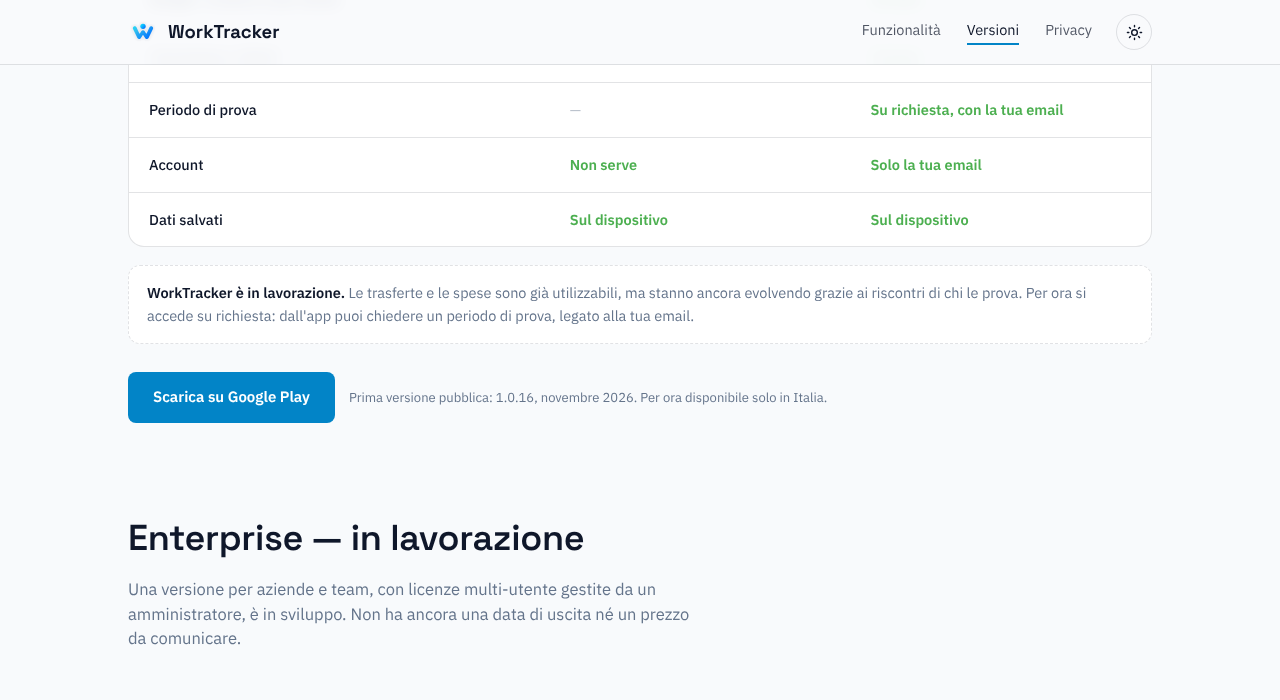
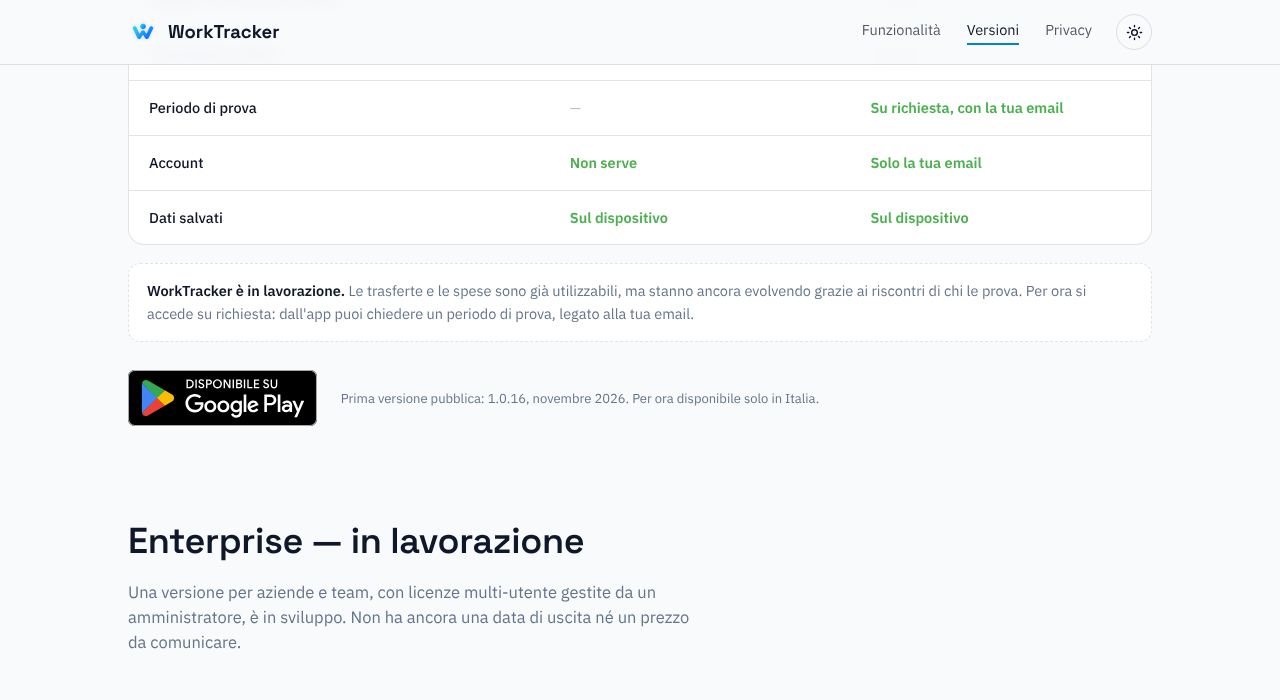
Sito: badge ufficiale di Google Play e galleria delle schermate rifatta
- Badge "Disponibile su Google Play" (brand/google-play/ di WorkTracker, 78bd960) al posto
  dei pulsanti testuali in WorkTracker, Funzionalità e Versioni, senza modifiche e con
  spazio intorno
- "L'app in breve": sezione scura, cornici di telefono con ombra, sei schermate prese
  dall'inizio dello schermo con titolo e una riga; griglia di 3 colonne su computer,
  scorrimento uno alla volta con punti su telefono; ingrandimento con Esc e frecce;
  immagini con dimensioni fisse e caricamento lazy; testo introduttivo aggiornato
- CLAUDE.md: file delle schermate e regole del badge

Claude-Session: https://claude.ai/code/session_01GDwTrYDSaUr12j4AG3LDR2

diff --git a/worktracker/index.html b/worktracker/index.html
@@ -76,7 +76,7 @@
       <h1>Ogni ora di lavoro, al suo posto.</h1>
       <p class="lede">Timbra, gestisci ferie e permessi con WorkTracker Lite. Tutto resta sul tuo telefono, non su un server di qualcun altro. Le trasferte arrivano con WorkTracker: è ancora in lavorazione, ma puoi già richiederne un periodo di prova.</p>
       <div class="cta-row">
-        <a href="https://play.google.com/store/apps/details?id=com.GhedoLab.WT" class="btn btn-primary" rel="noopener">Scarica su Google Play</a>
+        <a href="https://play.google.com/store/apps/details?id=com.GhedoLab.WT" class="gp-badge" rel="noopener"><img src="../assets/google-play/badge-disponibile-su-google-play-it.svg" alt="Disponibile su Google Play" width="189" height="56"></a>
         <a href="./prezzi/" class="btn btn-ghost">Vedi le versioni</a>
         <a href="./funzionalita/" class="btn btn-ghost">Come funziona</a>
       </div>
@@ -133,21 +133,58 @@
   </div>
 </section>
 
-<section id="schermate">
+<section class="on-contrast gallery" id="schermate">
   <div class="wrap">
     <div class="section-head">
       <h2>L'app in breve</h2>
-      <p>Alcune schermate di WorkTracker. Trasferte e spese fanno parte di WorkTracker, in lavorazione.</p>
+      <p>Le schermate principali: timbrature, zone di lavoro, trasferte e spese. Trasferte e spese sono incluse in WorkTracker.</p>
     </div>
-    <div class="shot-row">
-      <figure class="shot"><img src="./screenshot/home.webp" alt="La Home con le ore di oggi e il pulsante Entrata" width="540" height="1080" loading="lazy"><figcaption>La Home con le ore di oggi e il pulsante Entrata</figcaption></figure>
-      <figure class="shot"><img src="./screenshot/calendario.webp" alt="Calendario del mese con lavoro, ferie e permessi" width="540" height="1080" loading="lazy"><figcaption>Calendario del mese con lavoro, ferie e permessi</figcaption></figure>
-      <figure class="shot"><img src="./screenshot/timbrature.webp" alt="Elenco delle timbrature del giorno" width="540" height="1080" loading="lazy"><figcaption>Elenco delle timbrature del giorno</figcaption></figure>
-      <figure class="shot"><img src="./screenshot/zone.webp" alt="Zone di lavoro per la timbratura con la posizione" width="540" height="1080" loading="lazy"><figcaption>Zone di lavoro per la timbratura con la posizione</figcaption></figure>
-      <figure class="shot"><img src="./screenshot/trasferta.webp" alt="Dettaglio di una trasferta con rimborso km e prenotazioni" width="540" height="1080" loading="lazy"><figcaption>Dettaglio di una trasferta con rimborso km e prenotazioni</figcaption></figure>
-      <figure class="shot"><img src="./screenshot/spese.webp" alt="Spese di trasferta con il totale della giornata" width="540" height="1080" loading="lazy"><figcaption>Spese di trasferta con il totale della giornata</figcaption></figure>
-    </div>
+    <ul class="phones" id="phones">
+      <li class="phone-item">
+        <button class="phone" type="button" data-full="./screenshot/home-grande.webp" data-title="Home" aria-label="Ingrandisci: Home">
+          <img src="./screenshot/home.webp" alt="La Home di WorkTracker con le ore di oggi e il pulsante Entrata" width="540" height="1080" loading="lazy" decoding="async">
+        </button>
+        <p class="phone-cap"><strong>Home</strong>Ore di oggi, settimana e pulsante Entrata</p>
+      </li>
+      <li class="phone-item">
+        <button class="phone" type="button" data-full="./screenshot/timbrature-grande.webp" data-title="Timbrature" aria-label="Ingrandisci: Timbrature">
+          <img src="./screenshot/timbrature.webp" alt="Elenco delle timbrature del giorno con entrate e uscite" width="540" height="1080" loading="lazy" decoding="async">
+        </button>
+        <p class="phone-cap"><strong>Timbrature</strong>Entrate e uscite del giorno, da correggere con un tocco</p>
+      </li>
+      <li class="phone-item">
+        <button class="phone" type="button" data-full="./screenshot/zone-grande.webp" data-title="Zone di lavoro" aria-label="Ingrandisci: Zone di lavoro">
+          <img src="./screenshot/zone.webp" alt="Impostazioni delle zone di lavoro con la sede salvata" width="540" height="1080" loading="lazy" decoding="async">
+        </button>
+        <p class="phone-cap"><strong>Zone di lavoro</strong>Proposta o timbratura automatica quando arrivi</p>
+      </li>
+      <li class="phone-item">
+        <button class="phone" type="button" data-full="./screenshot/trasferta-grande.webp" data-title="Nuova trasferta" aria-label="Ingrandisci: Nuova trasferta">
+          <img src="./screenshot/trasferta.webp" alt="Creazione di una trasferta con destinazione sulla mappa e tipo di spostamento" width="540" height="1080" loading="lazy" decoding="async">
+        </button>
+        <p class="phone-cap"><strong>Nuova trasferta</strong>Destinazione sulla mappa, zona e mezzo</p>
+      </li>
+      <li class="phone-item">
+        <button class="phone" type="button" data-full="./screenshot/spese-grande.webp" data-title="Spese" aria-label="Ingrandisci: Spese">
+          <img src="./screenshot/spese.webp" alt="Spese di trasferta con il totale della giornata" width="540" height="1080" loading="lazy" decoding="async">
+        </button>
+        <p class="phone-cap"><strong>Spese</strong>Totale della giornata e scontrini per categoria</p>
+      </li>
+      <li class="phone-item">
+        <button class="phone" type="button" data-full="./screenshot/report-grande.webp" data-title="Report trasferta" aria-label="Ingrandisci: Report trasferta">
+          <img src="./screenshot/report.webp" alt="Schermata del report trasferta con i pulsanti PDF ed Excel" width="540" height="1080" loading="lazy" decoding="async">
+        </button>
+        <p class="phone-cap"><strong>Report trasferta</strong>PDF ed Excel pronti per il rimborso</p>
+      </li>
+    </ul>
+    <div class="phone-dots" id="phoneDots"></div>
   </div>
+  <dialog class="lightbox" id="lightbox" aria-label="Schermata ingrandita">
+    <button type="button" class="lb-close" data-lb="close" aria-label="Chiudi">✕</button>
+    <button type="button" class="lb-nav lb-prev" data-lb="prev" aria-label="Schermata precedente">‹</button>
+    <figure class="lb-figure"><img id="lbImg" src="" alt=""><figcaption id="lbCap"></figcaption></figure>
+    <button type="button" class="lb-nav lb-next" data-lb="next" aria-label="Schermata successiva">›</button>
+  </dialog>
 </section>
 
 <section>
@@ -174,7 +211,7 @@
       <strong>WorkTracker è in lavorazione.</strong> Trasferte e spese sono già utilizzabili ma stanno ancora evolvendo. Per ora si accede su richiesta: dall'app puoi chiedere un periodo di prova, legato alla tua email.
     </div>
     <div class="pricing-cta">
-      <a href="https://play.google.com/store/apps/details?id=com.GhedoLab.WT" class="btn btn-primary" rel="noopener">Scarica su Google Play</a>
+      <a href="https://play.google.com/store/apps/details?id=com.GhedoLab.WT" class="gp-badge" rel="noopener"><img src="../assets/google-play/badge-disponibile-su-google-play-it.svg" alt="Disponibile su Google Play" width="189" height="56"></a>
       <a href="./prezzi/" class="btn btn-ghost">Vedi tutti i dettagli</a>
       <span class="pricing-note">Per ora WorkTracker è disponibile su Google Play solo in Italia.</span>
     </div>
@@ -194,6 +231,56 @@
   </div>
 </footer>
 
+<script>
+(function () {
+  var list = document.getElementById('phones');
+  if (!list) return;
+  var phones = Array.prototype.slice.call(list.querySelectorAll('.phone'));
+  var items = list.querySelectorAll('.phone-item');
+  // Punti sotto la galleria (visibili solo da telefono, dove le schermate scorrono)
+  var dots = document.getElementById('phoneDots');
+  phones.forEach(function (_, n) {
+    var d = document.createElement('button');
+    d.type = 'button';
+    d.setAttribute('aria-label', 'Vai alla schermata ' + (n + 1));
+    d.addEventListener('click', function () { items[n].scrollIntoView({ behavior: 'smooth', block: 'nearest', inline: 'center' }); });
+    dots.appendChild(d);
+  });
+  function markDot() {
+    var mid = list.scrollLeft + list.clientWidth / 2, best = 0, dist = Infinity;
+    items.forEach(function (it, n) {
+      var c = it.offsetLeft + it.offsetWidth / 2, dd = Math.abs(c - mid);
+      if (dd < dist) { dist = dd; best = n; }
+    });
+    Array.prototype.forEach.call(dots.children, function (d, n) { d.setAttribute('aria-current', n === best ? 'true' : 'false'); });
+  }
+  list.addEventListener('scroll', function () { window.requestAnimationFrame(markDot); }, { passive: true });
+  markDot();
+  // Ingrandimento: Esc chiude (dialog nativo), frecce per scorrere, clic fuori per chiudere
+  var box = document.getElementById('lightbox'), img = document.getElementById('lbImg'), cap = document.getElementById('lbCap');
+  if (!box || typeof box.showModal !== 'function') return;
+  var cur = 0;
+  function show(n) {
+    cur = (n + phones.length) % phones.length;
+    var b = phones[cur], small = b.querySelector('img');
+    img.src = b.getAttribute('data-full');
+    img.alt = small.alt;
+    cap.textContent = (cur + 1) + ' / ' + phones.length + ' · ' + b.getAttribute('data-title');
+  }
+  phones.forEach(function (b, n) { b.addEventListener('click', function () { show(n); box.showModal(); }); });
+  box.addEventListener('click', function (e) {
+    var a = e.target.getAttribute && e.target.getAttribute('data-lb');
+    if (a === 'close' || e.target === box) box.close();
+    else if (a === 'prev') show(cur - 1);
+    else if (a === 'next') show(cur + 1);
+  });
+  box.addEventListener('keydown', function (e) {
+    if (e.key === 'ArrowLeft') { e.preventDefault(); show(cur - 1); }
+    if (e.key === 'ArrowRight') { e.preventDefault(); show(cur + 1); }
+  });
+  box.addEventListener('close', function () { phones[cur].focus(); });
+})();
+</script>
 <script src="../assets/theme.js"></script>
 <script>
 (function () {

diff --git a/assets/style.css b/assets/style.css
@@ -295,9 +295,45 @@ a.product-card:hover { border-color: var(--accent); }
 @media (max-width: 420px) { .wordmark.wordmark-text { font-size: 0; } }
 
 /* ---------- Schermate dell'app (pagina WorkTracker) ---------- */
-.shot-row { display: flex; gap: 18px; overflow-x: auto; scroll-snap-type: x mandatory; padding-bottom: 12px; -webkit-overflow-scrolling: touch; }
-.shot { flex: 0 0 220px; margin: 0; scroll-snap-align: start; }
-.shot img { width: 100%; height: auto; display: block; border-radius: 18px; border: 1px solid var(--border); background: var(--surface-card); }
-.shot figcaption { font-size: 13px; color: var(--text-muted); margin-top: 8px; line-height: 1.4; }
-@media (max-width: 640px) { .shot { flex-basis: 70%; } }
-.page-hero .lang-switch { margin: 0; font-size: 14px; }
+.gallery .phones { list-style: none; margin: 0 auto; padding: 0; max-width: 940px;
+  display: grid; grid-template-columns: repeat(3, 1fr); gap: 56px 36px; }
+.phone-item { margin: 0; }
+.phone { display: block; width: 100%; max-width: 250px; margin: 0 auto; padding: 9px;
+  border-radius: 36px; background: #05080F; border: 1px solid rgba(255,255,255,0.16);
+  box-shadow: 0 28px 50px -22px rgba(0,0,0,0.75), 0 2px 0 rgba(255,255,255,0.05) inset;
+  cursor: zoom-in; transition: transform 0.18s ease; }
+.phone:hover { transform: translateY(-4px); }
+.phone:focus-visible { outline: 2px solid var(--accent-bright); outline-offset: 4px; }
+.phone img { display: block; width: 100%; height: auto; aspect-ratio: 540 / 1080; border-radius: 28px; }
+.phone-cap { max-width: 250px; margin: 18px auto 0; text-align: center; font-size: 14px; line-height: 1.45;
+  color: var(--text-muted-on-contrast); }
+.phone-cap strong { display: block; font-size: 15.5px; color: var(--text-on-contrast); margin-bottom: 2px; }
+.phone-dots { display: none; }
+@media (max-width: 720px) {
+  .gallery .phones { display: flex; gap: 18px; overflow-x: auto; scroll-snap-type: x mandatory;
+    margin: 0 -20px; padding: 6px 20px 14px; scrollbar-width: none; }
+  .gallery .phones::-webkit-scrollbar { display: none; }
+  .phone-item { flex: 0 0 72%; scroll-snap-align: center; }
+  .phone { max-width: none; }
+  .phone-dots { display: flex; justify-content: center; gap: 10px; margin-top: 18px; }
+  .phone-dots button { width: 9px; height: 9px; padding: 0; border-radius: 50%; border: none;
+    background: var(--border-on-contrast); cursor: pointer; }
+  .phone-dots button[aria-current="true"] { background: var(--accent-bright); }
+}
+@media (prefers-reduced-motion: reduce) { .phone { transition: none; } .phone:hover { transform: none; } }
+.lightbox { border: none; padding: 0; background: transparent; max-width: 100vw; max-height: 100vh; overflow: visible; }
+.lightbox::backdrop { background: rgba(4,8,16,0.88); }
+.lb-figure { margin: 0; text-align: center; }
+.lb-figure img { display: block; height: 82vh; width: auto; max-width: 86vw; border-radius: 22px; margin: 0 auto; }
+.lb-figure figcaption { margin-top: 12px; color: #E2E8F0; font-size: 14px; }
+.lb-close, .lb-nav { position: fixed; border: 1px solid rgba(255,255,255,0.25); background: rgba(15,23,42,0.85);
+  color: #fff; border-radius: 50%; width: 44px; height: 44px; font-size: 22px; line-height: 1; cursor: pointer; }
+.lb-close { top: 16px; right: 16px; }
+.lb-nav { top: 50%; transform: translateY(-50%); }
+.lb-prev { left: 16px; } .lb-next { right: 16px; }
+.lb-close:focus-visible, .lb-nav:focus-visible { outline: 2px solid #38BDF8; outline-offset: 2px; }
+
+/* ---------- Badge ufficiale di Google Play (non modificare l'immagine) ---------- */
+.gp-badge { display: inline-flex; align-items: center; padding: 6px; margin: -6px 4px -6px -6px; border-radius: 10px; }
+.gp-badge img { display: block; height: 56px; width: auto; }
+.gp-badge:focus-visible { outline: 2px solid var(--accent); outline-offset: 2px; }

diff --git a/worktracker/funzionalita/index.html b/worktracker/funzionalita/index.html
@@ -150,7 +150,7 @@
       <h2 style="margin:0 0 14px;">Pronto a provarlo?</h2>
       <p class="muted" style="margin:0 0 28px;">Inizia con WorkTracker Lite, disponibile su Google Play. Quando ti servono le trasferte, richiedi un periodo di prova di WorkTracker.</p>
       <div style="display:flex;gap:14px;flex-wrap:wrap;justify-content:center;">
-        <a href="https://play.google.com/store/apps/details?id=com.GhedoLab.WT" class="btn btn-primary" rel="noopener">Scarica su Google Play</a>
+        <a href="https://play.google.com/store/apps/details?id=com.GhedoLab.WT" class="gp-badge" rel="noopener"><img src="../../assets/google-play/badge-disponibile-su-google-play-it.svg" alt="Disponibile su Google Play" width="189" height="56"></a>
         <a href="../prezzi/" class="btn btn-ghost" style="color:var(--text-on-contrast);border-color:var(--border-on-contrast);">Vedi le versioni</a>
       </div>
     </div>

diff --git a/worktracker/prezzi/index.html b/worktracker/prezzi/index.html
@@ -83,7 +83,7 @@
       <strong>WorkTracker è in lavorazione.</strong> Le trasferte e le spese sono già utilizzabili, ma stanno ancora evolvendo grazie ai riscontri di chi le prova. Per ora si accede su richiesta: dall'app puoi chiedere un periodo di prova, legato alla tua email.
     </div>
     <div class="pricing-cta">
-      <a href="https://play.google.com/store/apps/details?id=com.GhedoLab.WT" class="btn btn-primary" rel="noopener">Scarica su Google Play</a>
+      <a href="https://play.google.com/store/apps/details?id=com.GhedoLab.WT" class="gp-badge" rel="noopener"><img src="../../assets/google-play/badge-disponibile-su-google-play-it.svg" alt="Disponibile su Google Play" width="189" height="56"></a>
       <span class="pricing-note">Prima versione pubblica: 1.0.16, novembre 2026. Per ora disponibile solo in Italia.</span>
     </div>
   </section>

diff --git a/CLAUDE.md b/CLAUDE.md
@@ -49,6 +49,13 @@ Elekit (pagina Elekit e scheda in home).
 **WorkTracker**: le pagine `/worktracker/` e `/privacy/` usano le icone dell'app in `assets/`
 (`favicon.svg`, `logo-mark.svg`, ...). Le schermate in `worktracker/screenshot/` (WebP 540 px)
 vengono da `screenshots/play-store/` del repository WorkTracker: aggiornarle quando cambiano.
+  Sei file, ognuno in due misure (`nome.webp` 540 px e `nome-grande.webp` 900 px per
+  l'ingrandimento): `home`, `timbrature`, `zone`, `trasferta`, `spese`, `report`. Schermate
+  sempre prese dall'inizio dello schermo; per cambiarle basta sostituire i file.
+
+**Badge Google Play**: `assets/google-play/badge-disponibile-su-google-play-it.svg`, ufficiale
+(fonte `brand/google-play/` di WorkTracker). Non modificarlo né ricolorarlo, lasciare spazio
+intorno, sempre collegato a https://play.google.com/store/apps/details?id=com.GhedoLab.WT.
 
 ## Regole sui contenuti
 
